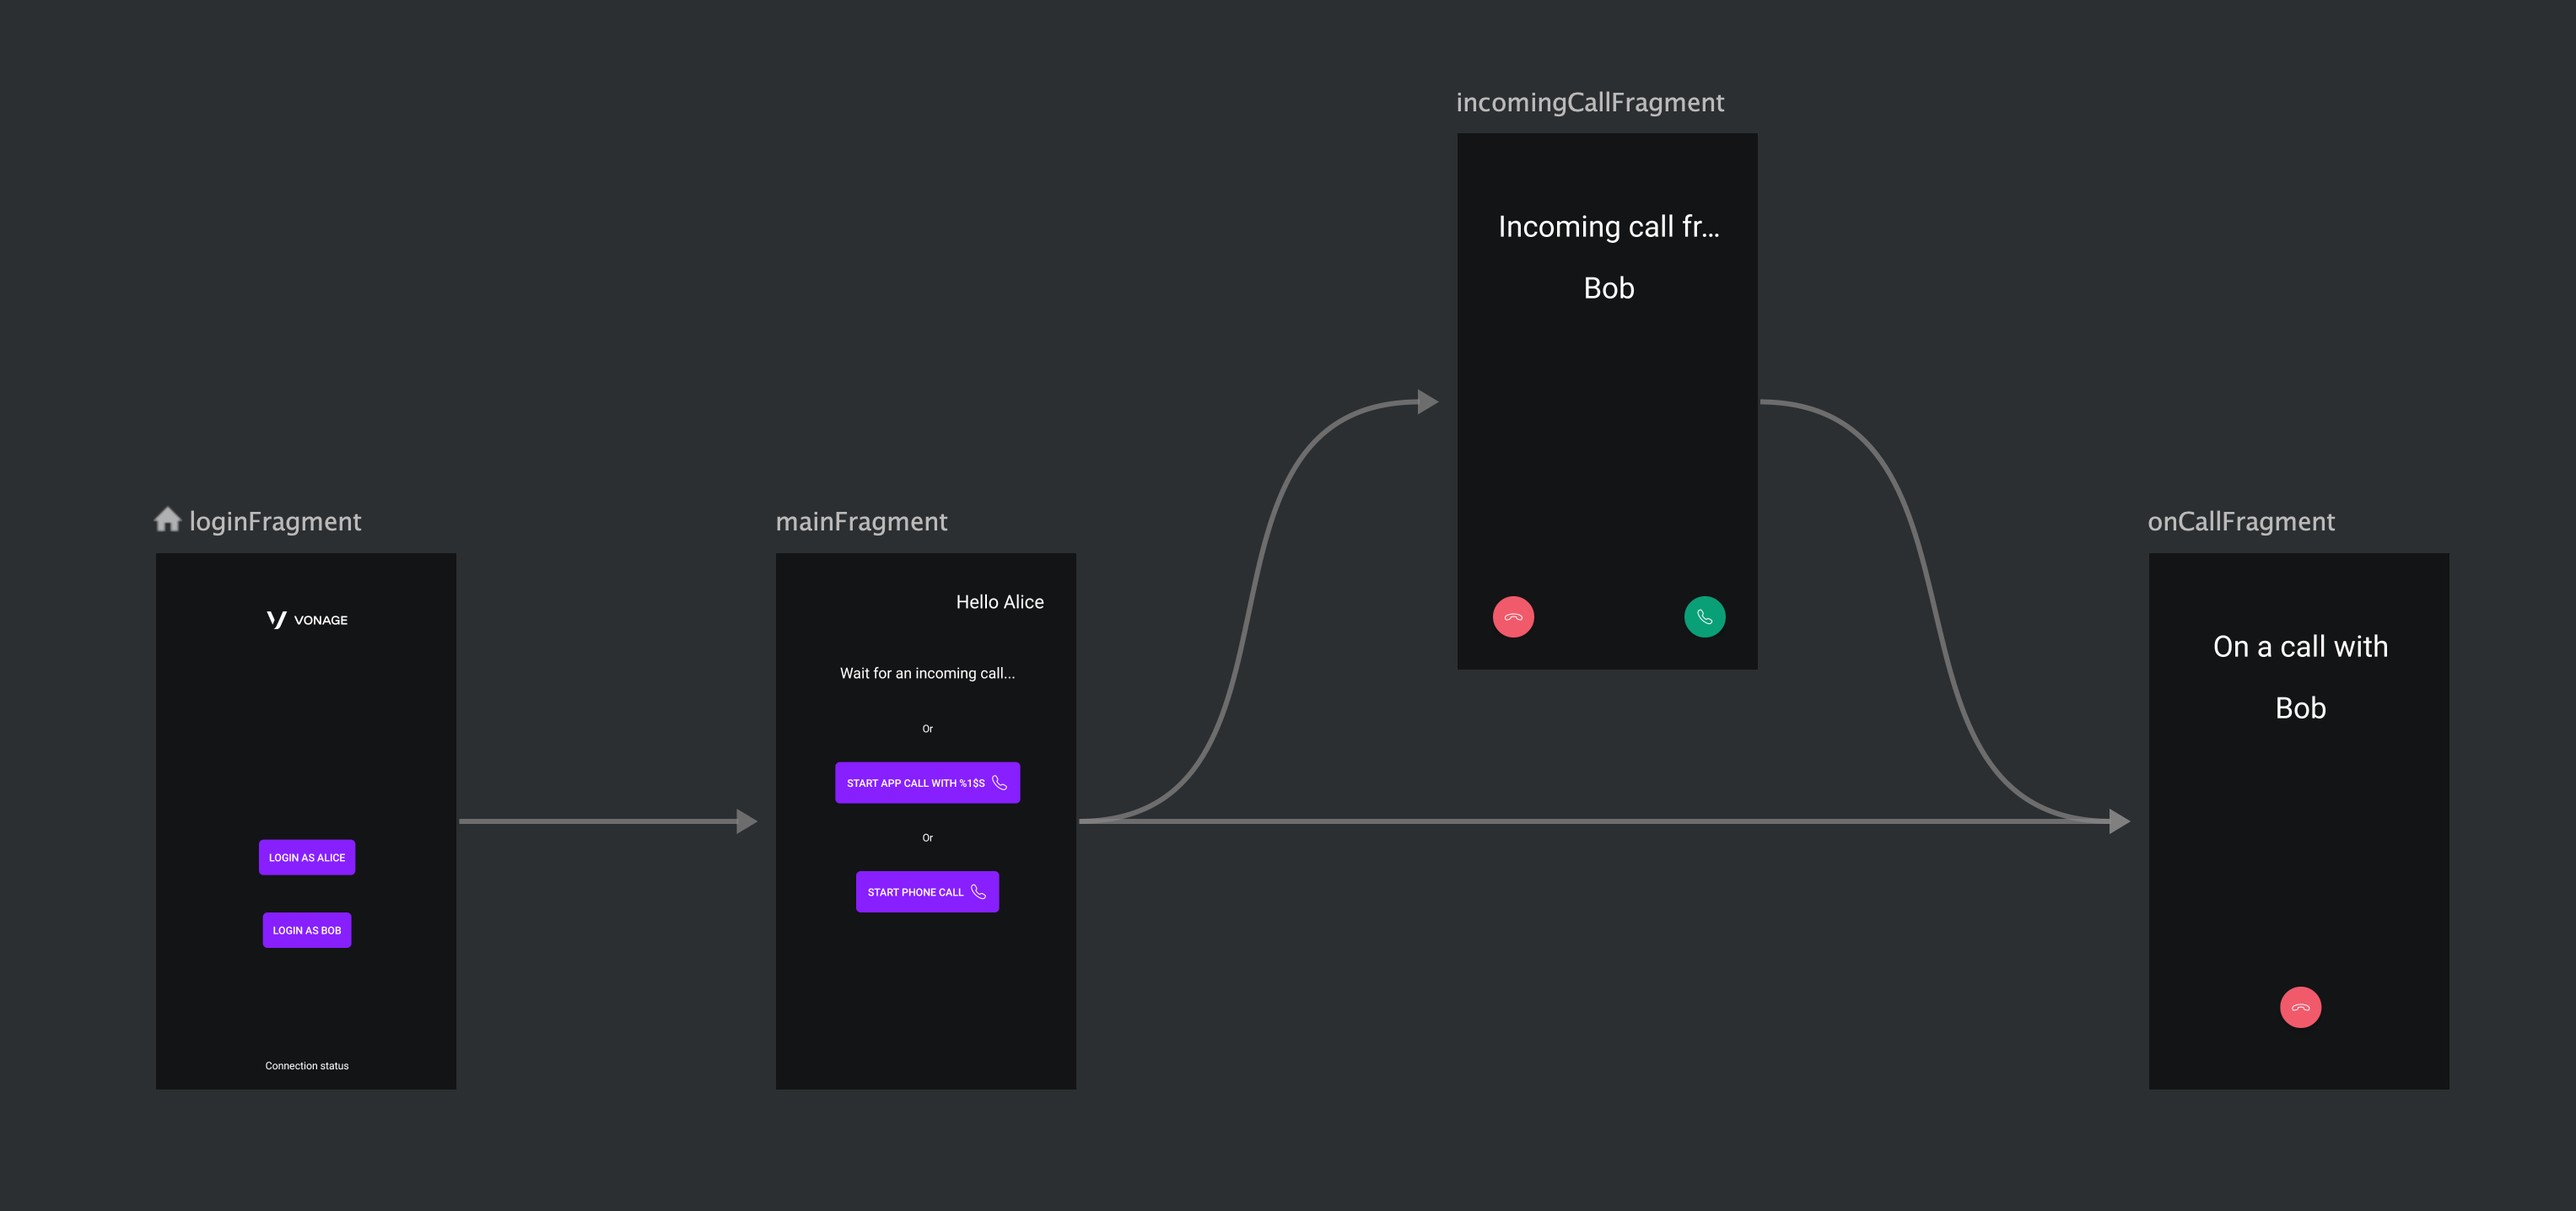
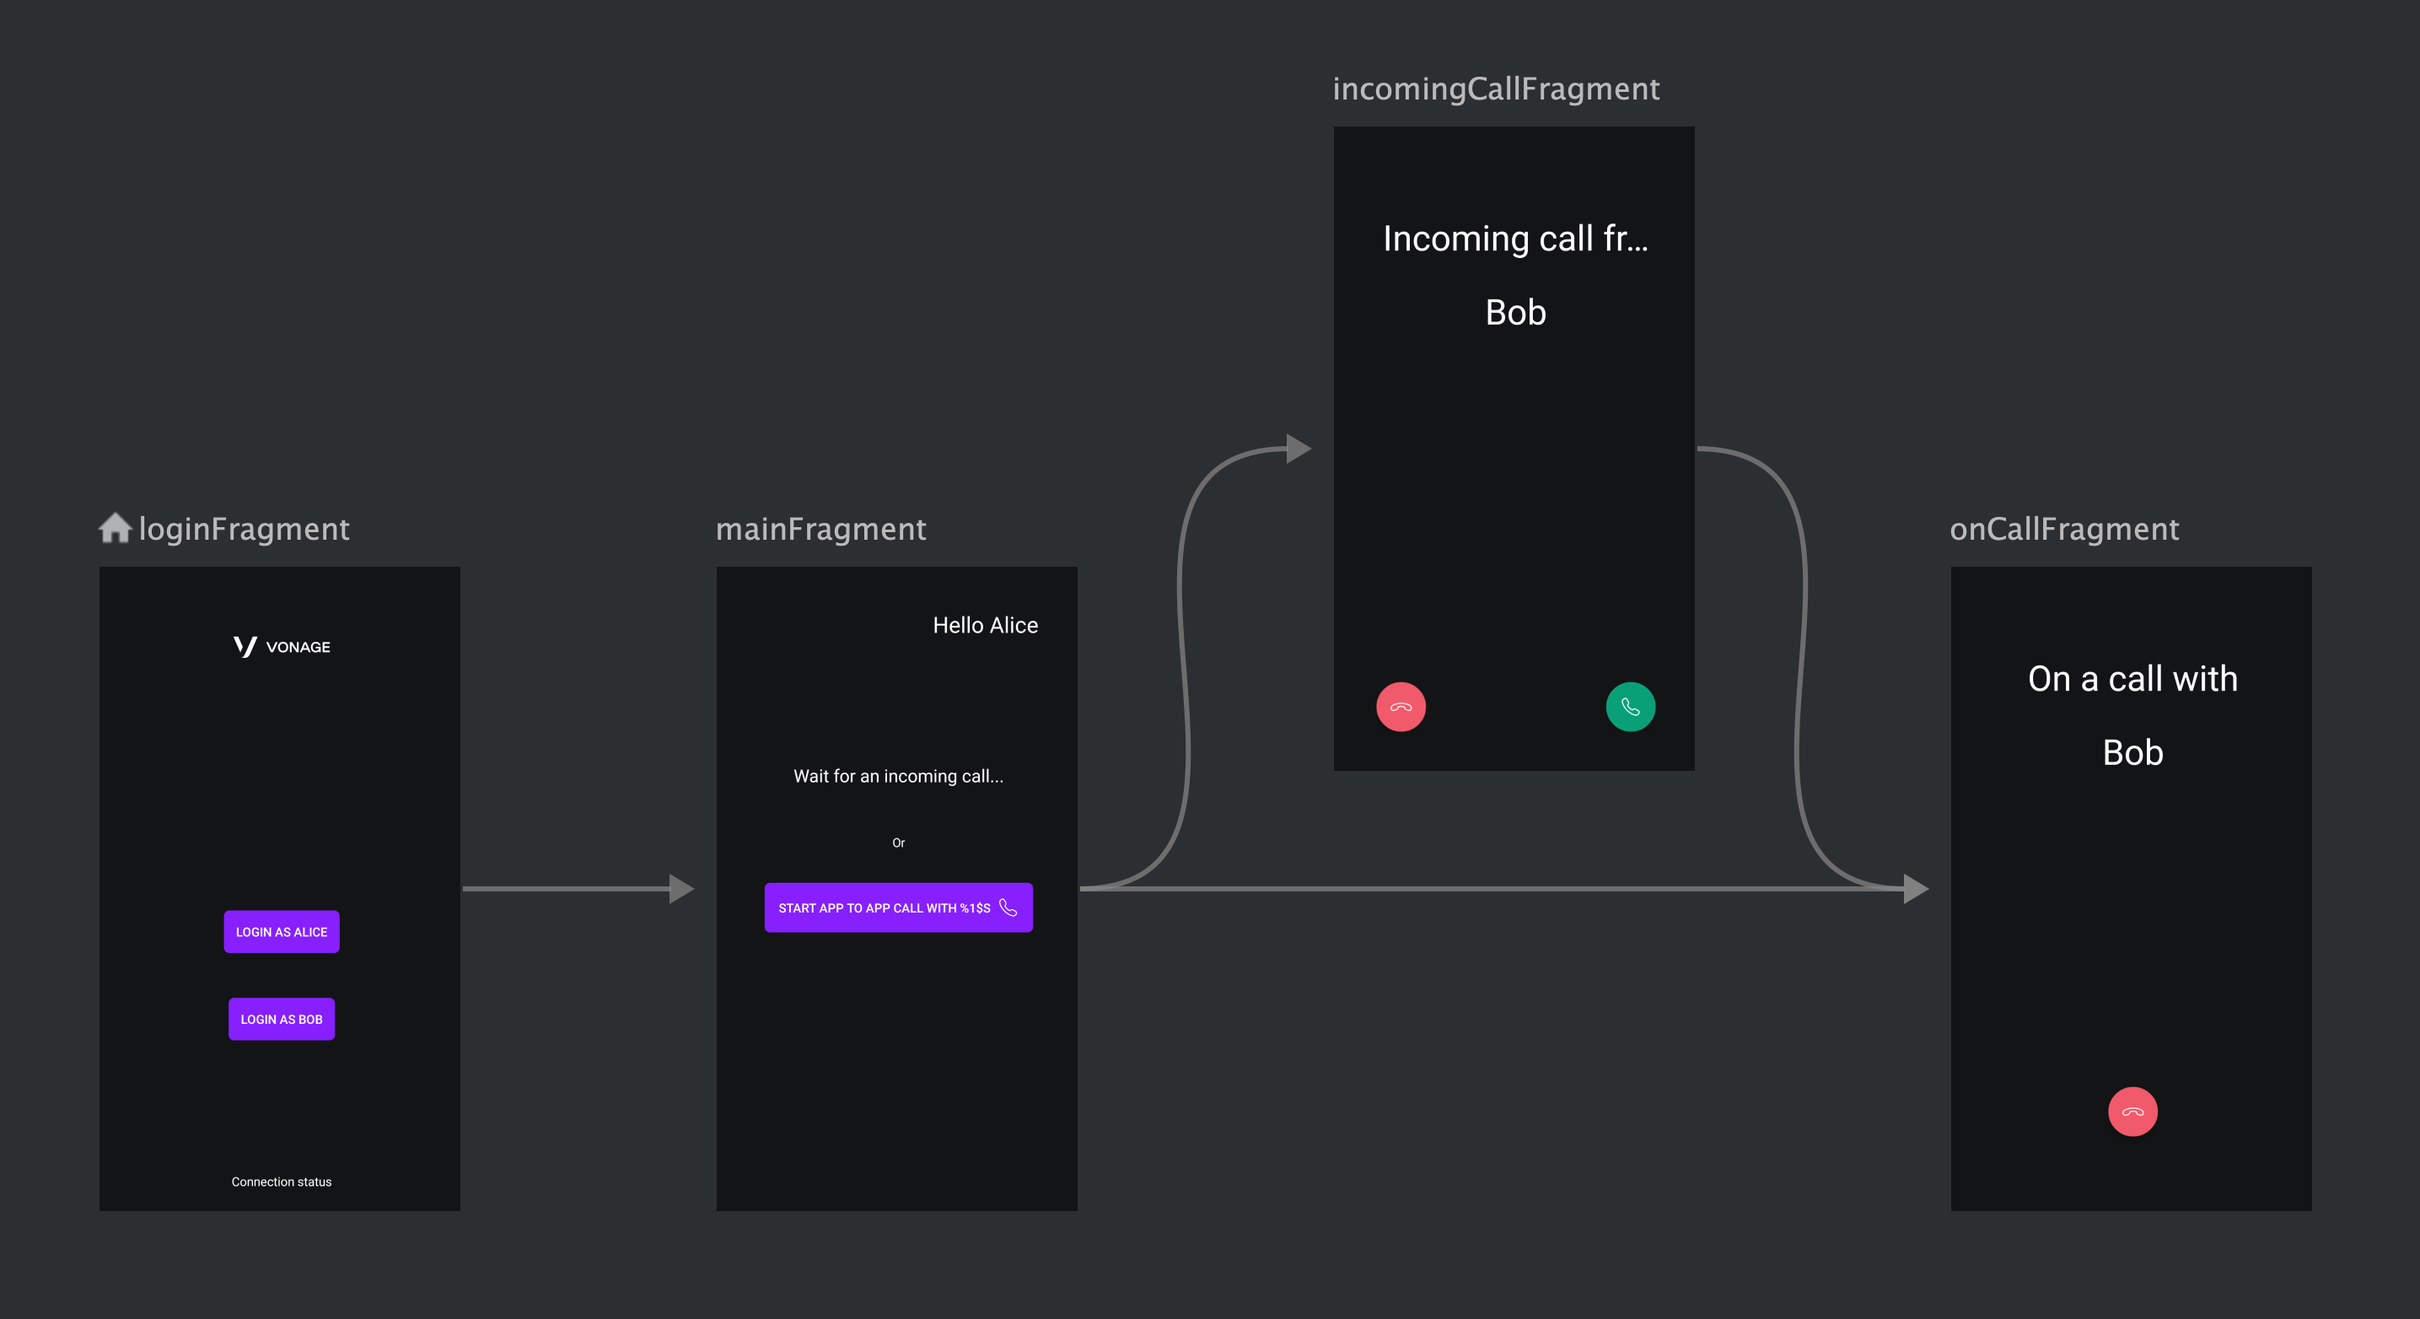
app app-to-app tutorial

diff --git a/_tutorials/en/client-sdk/android-shared/create-application.md b/_tutorials/en/client-sdk/android-shared/create-application.md
@@ -1,0 +1,32 @@
+---
+title: Create a Nexmo Application
+description: In this step you learn how to create a Nexmo Application.
+---
+
+# Create your Nexmo Application
+
+You now need to create a Nexmo application. In this step you create an application capable of handling both in-app Voice and in-app Messaging use cases.
+
+1) First create your project directory if you've not already done so.
+
+2) Change into the project directory.
+
+3) Create a Nexmo application by copying and pasting the command below. Make sure to replace `GIST-URL`  with the URL from the previous step.
+
+``` shell
+nexmo app:create "App to Phone Tutorial" --capabilities=voice --keyfile=private.key  --voice-event-url=https://example.com/ --voice-answer-url=GIST-URL 
+```
+
+> **NOTE:** An application can be also created using the CLI's [interactive mode](/application/nexmo-cli#interactive-mode).
+
+A file named `.nexmo-app` is created in your project directory and contains the Nexmo Application ID and the private key. A private key file named `private.key` is also created.
+
+For more details on how to create an application and various available application capabilities please see our [documentation](/application/overview).
+
+The command will also output some details including the generated Application ID. Please make a note of it as you'll need it in the future. 
+
+## Nexmo Dashboard
+
+You can also obtain information about your application, including the Application ID, in the [Nexmo Dashboard](https://dashboard.nexmo.com/voice/your-applications).
+
+![Nexmo Developer Dashboard Applications screenshot](/assets/screenshots/tutorials/app-to-phone/nexmo-dashboard-applications.png "Nexmo Developer Dashboard Applications screenshot")

diff --git a/_tutorials/en/client-sdk/app-to-app/starter-project/kotlin.md b/_tutorials/en/client-sdk/app-to-app/starter-project/kotlin.md
@@ -7,19 +7,21 @@ description: In this step you will clone the starter project
 
 To make things easier, a `Starter` project is provided for you. It is a simple Android Studio project that contains an application with the following two screens:
 
-1. Clone this [GitHub project](2. https://github.com/nexmo-community/client-sdk-android-tutorial-voice-app-to-phone).
-2. Open the project in the `Android Studio` - navigate to the menu `File -> Open` and select the `kotlin-start` folder from cloned repository.
+1. Clone this [GitHub project](2. https://github.com/nexmo-community/client-sdk-android-tutorial-voice-app-to-app).
+
+3. Open the project in the `Android Studio` - navigate to the menu `File -> Open` and select the `kotlin-start` folder from cloned repository.
 
 ## Project navigation overview
 
 ```screenshot
-image: public/assets/images/client-sdk/android-app-to-phone/nav-graph.png
+image: public/assets/images/client-sdk/android-app-to-app/nav-graph.png
 ```
 
 The application consists of four screens: 
 
 - **login** - responsible for logging the user
 - **main** - allows to start a call and listens for incoming call
+- **incomingCall** - answer or reject incoming call
 - **onCall** - displayed during ongoing call, allows to end current call
 
 ## Project internal structure
@@ -27,5 +29,5 @@ The application consists of four screens:
 All files that will be modified during this tutorial are located in the `app/src/main/java/com/vonage/tutorial/voice` directory:
 
 ```screenshot
-image: public/assets/images/client-sdk/android-app-to-phone/project-files.png
+image: public/assets/images/client-sdk/android-app-to-app/project-files.png
 ```

diff --git a/_tutorials/en/client-sdk/android-shared/create-ncco.md b/_tutorials/en/client-sdk/android-shared/create-ncco.md
@@ -1,0 +1,43 @@
+---
+title: Create a NCCO
+description: In this step, you modify your NCCO using GitHub Gist.
+---
+
+# Create a NCCO
+
+A Nexmo Call Control Object (NCCO) is a JSON array that you use to control the flow of a Voice API call. More information on NCCO can be found [here](https://developer.nexmo.com/voice/voice-api/ncco-reference).
+
+The NCCO must be public and accessible by the internet. To accomplish that, we will be using [GitHub Gist](https://gist.github.com/):
+
+1) Go to [https://gist.github.com/](https://gist.github.com/).
+
+2) Enter `ncco.json` into "Filename including extension".
+   
+3) Copy and paste the following JSON object into the gist:
+
+```json
+[
+    {
+        "action": "talk",
+        "text": "Please wait while we connect you."
+    },
+    {
+        "action": "connect",
+        "endpoint": [
+            {
+                "type": "phone",
+                "number": "PHONE_NUMBER"
+            }
+        ]
+    }
+]
+```
+
+4) Replace `PHONE_NUMBER` with your phone number (must be in [E.164](https://developer.nexmo.com/concepts/guides/glossary#e-164-format) format, for example: 14155550100 or 447700900001)
+
+5) Click the `Create secret gist` button.
+
+6) Click the `Raw` button and take note of the URL shown in your browser, you will be using it in the next step. It should look like this:
+**https://gist.githubusercontent.com/`USERNAME`/`RANDOM_HEX`/raw/`RANDOM_HEX`/ncco.json**
+
+

diff --git a/_tutorials/en/client-sdk/app-to-app/recieve-call/kotlin.md b/_tutorials/en/client-sdk/app-to-app/recieve-call/kotlin.md
@@ -1,0 +1,29 @@
+---
+title: Receive a call
+description: In this step you will recieve make an app call
+---
+
+# Make a call
+
+Locate the `incomingCallListener` property within the `MainViewModel` class and fill its body:
+
+```kotlin
+private val incomingCallListener = NexmoIncomingCallListener { call ->
+    callManager.onGoingCall = call
+    val otherUserName = call.callMembers.first().user.name
+    val navDirections = MainFragmentDirections.actionMainFragmentToIncomingCallFragment(otherUserName)
+    navManager.navigate(navDirections)
+}
+```
+
+Now you need to make sure that above listener will be called. Locate the `onInit` property within the `MainViewModel` class and fill its body:
+
+```kotlin
+fun onInit(mainFragmentArg: MainFragmentArgs) {
+    val currentUserName = mainFragmentArg.userName
+    _currentUserNameMutableLiveData.postValue(currentUserName)
+    otherUserName = Config.getOtherUserName(currentUserName)
+    client.removeIncomingCallListeners()
+    client.addIncomingCallListener(incomingCallListener)
+}
+```

diff --git a/_tutorials/en/client-sdk/app-to-app/make-call/kotlin.md b/_tutorials/en/client-sdk/app-to-app/make-call/kotlin.md
@@ -1,0 +1,29 @@
+---
+title: Make a call
+description: In this step you will make an app call
+---
+
+# Make a call
+
+Locate the `startAppToAppCall` method within the `MainViewModel` class and fill its body to enable call:
+
+```kotlin
+@SuppressLint("MissingPermission")
+fun startAppToAppCall() {
+    lastCalledUserName = otherUserName
+    client.call(otherUserName, NexmoCallHandler.IN_APP, callListener)
+    loadingMutableLiveData.postValue(true)
+}
+```
+
+> **NOTE:** we set the `IGNORED_NUMBER` argument, because our number is specified in the NCCO config (Nexmo application answer URL that you configured previously).
+
+Now you need to make sure that above method is called after pressing UI button. Open `MainFragment` class and update `startAppToAppCallButton.setOnClickListener` inside `onViewCreated` method:
+
+```kotlin
+startAppToAppCallButton.setOnClickListener {
+    viewModel.startAppToAppCall()
+}
+```
+
+Launch the app and make your first app to app call.

diff --git a/_tutorials/en/client-sdk/app-to-phone/make-call/kotlin.md b/_tutorials/en/client-sdk/app-to-phone/make-call/kotlin.md
@@ -1,6 +1,6 @@
 ---
 title: Make a call
-description: In this step you make a phone call
+description: In this step you will make a phone call
 ---
 
 # Make a call
@@ -16,7 +16,7 @@ fun startAppToPhoneCall() {
 }
 ```
 
-> **NOTE:** we set the `IGNORED_NUMBER` argument, because our number is specified in the NCCO config (answer URL that points to the gist file).
+> **NOTE:** we set the `IGNORED_NUMBER` argument, because our number is specified in the NCCO config (Nexmo application answer URL that you configured previously).
 
 Now you need to make sure that above method is called after pressing UI button. Open `MainFragment` class and update `startAppToPhoneCallButton.setOnClickListener` inside `onViewCreated` method:
 
@@ -26,4 +26,4 @@ startAppToPhoneCallButton.setOnClickListener {
 }
 ```
 
-Launch the app and make your first call.
+Launch the app and make your first app to phone call.

diff --git a/_tutorials/en/client-sdk/android-shared/call/authenticate-alice/kotlin.md b/_tutorials/en/client-sdk/android-shared/call/authenticate-alice/kotlin.md
@@ -1,5 +1,5 @@
 ---
-title: Authenticate Your User
+title: Authenticate Your Users
 description: In this step you authenticate your users via the JWTs you created earlier
 ---
 
